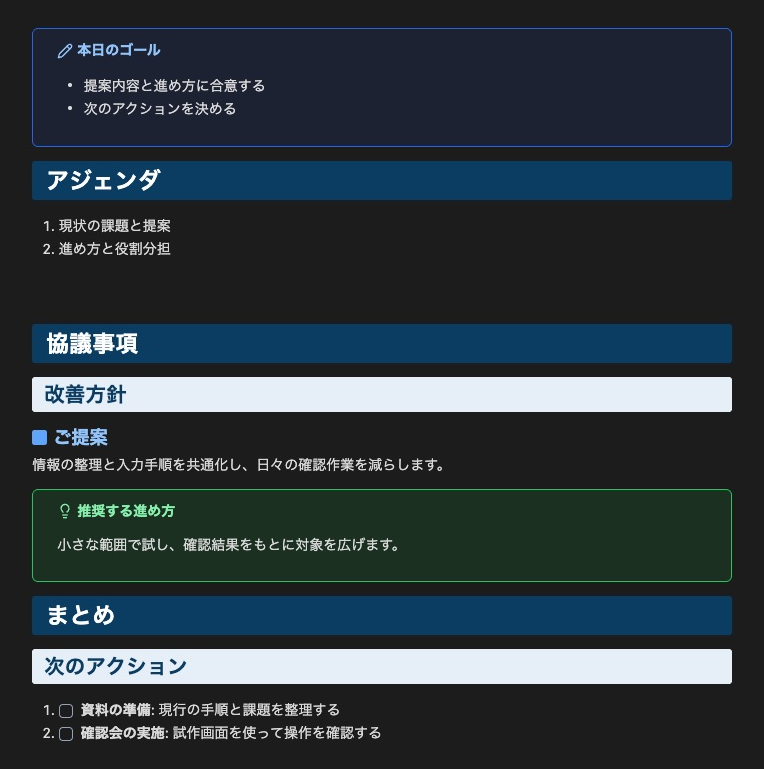
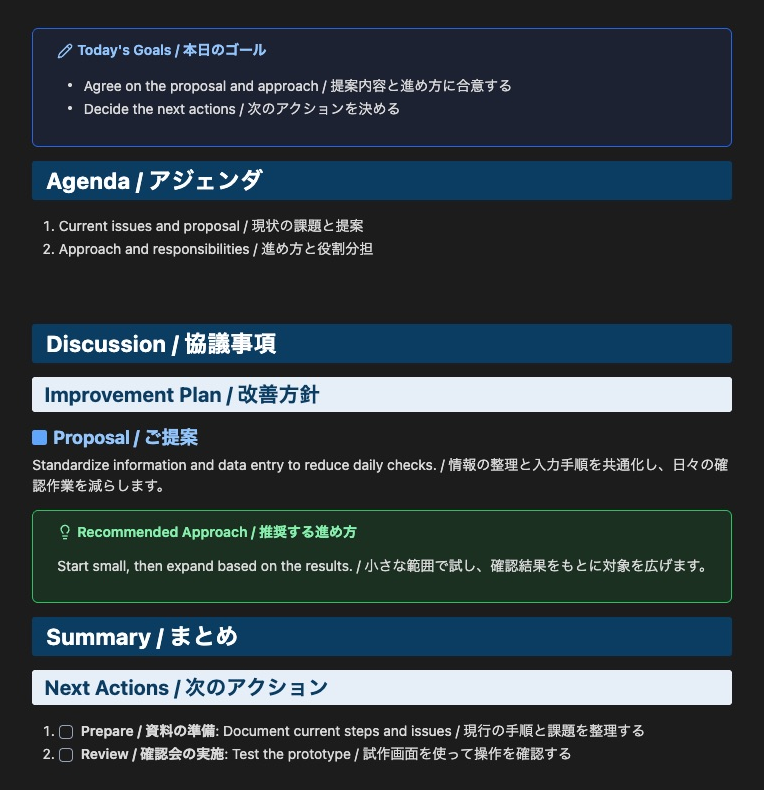
文書: プロパティと章の余白サンプルを英日併記に統一

Changed region(s): [[0.0301, 0.4057, 0.9634, 0.9675], [0.0301, 0.1873, 0.9634, 0.3433], [0.0602, 0.0312, 0.6623, 0.156]]

diff --git a/ui-meeting.md b/ui-meeting.md
@@ -1,26 +1,26 @@
-> [!NOTE] 本日のゴール
-> - 提案内容と進め方に合意する
-> - 次のアクションを決める
+> [!NOTE] Today's Goals / 本日のゴール
+> - Agree on the proposal and approach / 提案内容と進め方に合意する
+> - Decide the next actions / 次のアクションを決める
 
-# アジェンダ
+# Agenda / アジェンダ
 
-1. 現状の課題と提案
-2. 進め方と役割分担
+1. Current issues and proposal / 現状の課題と提案
+2. Approach and responsibilities / 進め方と役割分担
 
-# 協議事項
+# Discussion / 協議事項
 
-## 改善方針
+## Improvement Plan / 改善方針
 
-### ご提案
+### Proposal / ご提案
 
-情報の整理と入力手順を共通化し、日々の確認作業を減らします。
+Standardize information and data entry to reduce daily checks. / 情報の整理と入力手順を共通化し、日々の確認作業を減らします。
 
-> [!TIP] 推奨する進め方
-> 小さな範囲で試し、確認結果をもとに対象を広げます。
+> [!TIP] Recommended Approach / 推奨する進め方
+> Start small, then expand based on the results. / 小さな範囲で試し、確認結果をもとに対象を広げます。
 
-# まとめ
+# Summary / まとめ
 
-## 次のアクション
+## Next Actions / 次のアクション
 
-1. [ ] **資料の準備**: 現行の手順と課題を整理する
-2. [ ] **確認会の実施**: 試作画面を使って操作を確認する
+1. [ ] **Prepare / 資料の準備**: Document current steps and issues / 現行の手順と課題を整理する
+2. [ ] **Review / 確認会の実施**: Test the prototype / 試作画面を使って操作を確認する

diff --git a/ui-properties.md b/ui-properties.md
@@ -1,9 +1,9 @@
 ---
-name: project-notes
-description: 会議の目的と合意事項をまとめるノート。項目名と値を読み分けやすく表示し、長い説明文も省略せず確認できます。
-status: In progress
+name / 名前: project-notes / プロジェクトノート
+summary / 概要: Record meeting goals and decisions. Clear labels and values keep long descriptions readable without truncation. / 会議の目的と合意事項を記録します。項目名と値を読み分けやすく表示し、長い説明文も省略せず確認できます。
+status / 状態: In progress / 進行中
 ---
 
-# プロジェクトノート
+# Project Notes / プロジェクトノート
 
-概要を確認してから、次のアクションを整理します。
+Review the overview, then plan the next actions. / 概要を確認してから、次のアクションを整理します。
